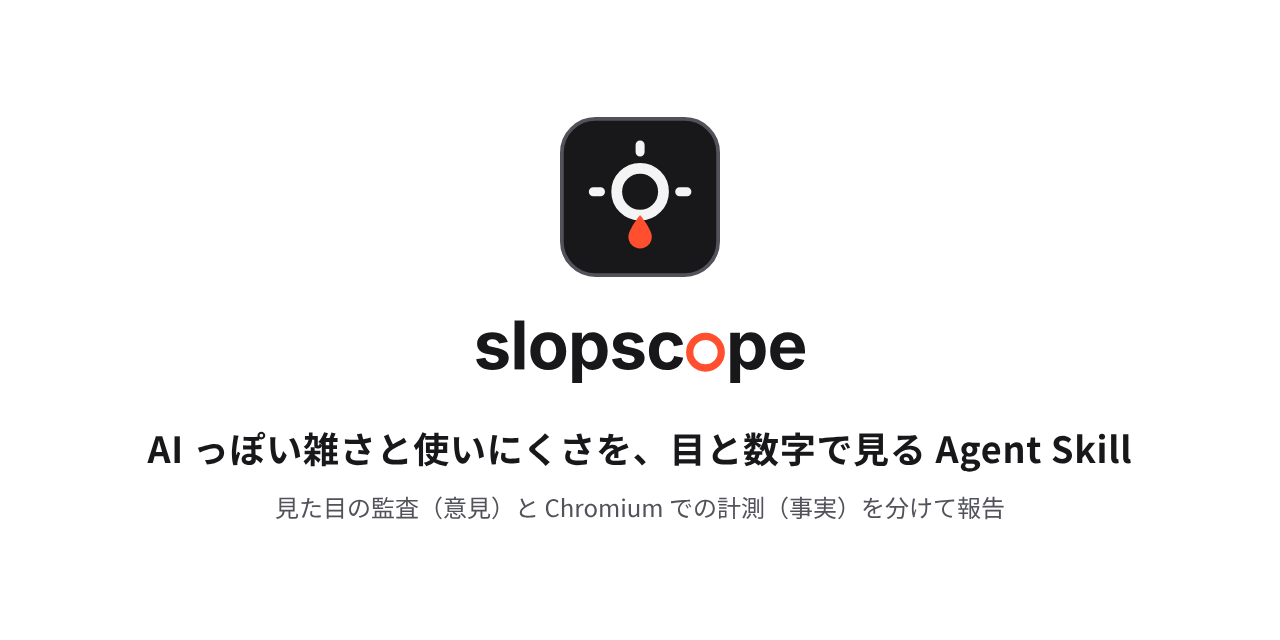
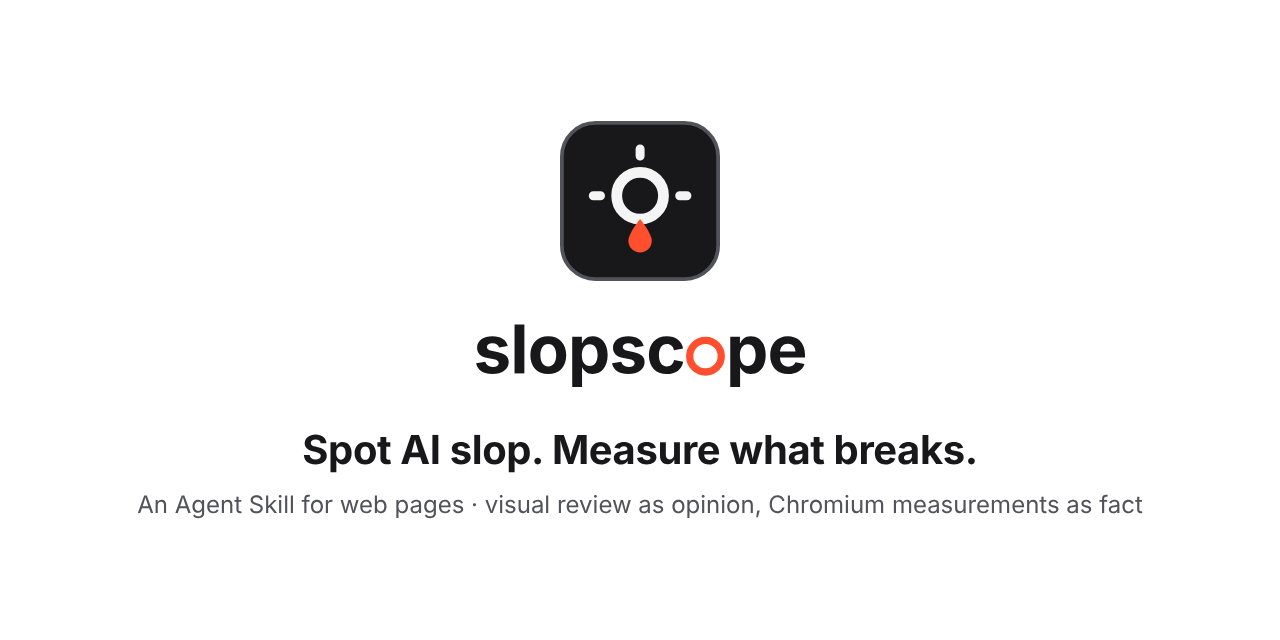
Social preview in English; keep the Japanese one as social-preview-ja.png
Claude-Session: https://claude.ai/code/session_01Gt7kNYwcrLQiGV347m6r52

diff --git a/docs/logo/social-preview.html b/docs/logo/social-preview.html
@@ -1,14 +1,14 @@
-<!doctype html><html lang="ja"><head><meta charset="utf-8"><title>slopscope social preview</title>
+<!doctype html><html lang="en"><head><meta charset="utf-8"><title>slopscope social preview</title>
 <style>
   body{margin:0;width:1280px;height:640px;background:#fff;display:flex;flex-direction:column;align-items:center;justify-content:center;
-       font-family:"Noto Sans CJK JP",sans-serif;color:#18181B}
+       font-family:"Inter",sans-serif;color:#18181B}
   .icon{width:160px;margin-bottom:28px}
   .word{height:84px}
-  p{margin:32px 0 0;font-size:36px;font-weight:700;letter-spacing:.02em}
+  p{margin:32px 0 0;font-size:40px;font-weight:700;letter-spacing:-.01em}
   small{margin-top:16px;font-size:24px;color:#52525B}
 </style></head><body>
 <img class="icon" src="../../assets/app-icon.svg" alt="">
 <img class="word" src="../../assets/wordmark.svg" alt="slopscope">
-<p>AI っぽい雑さと使いにくさを、目と数字で見る Agent Skill</p>
-<small>見た目の監査（意見）と Chromium での計測（事実）を分けて報告</small>
+<p>Spot AI slop. Measure what breaks.</p>
+<small>An Agent Skill for web pages · visual review as opinion, Chromium measurements as fact</small>
 </body></html>

diff --git a/docs/logo/social-preview-ja.html b/docs/logo/social-preview-ja.html
@@ -1,0 +1,14 @@
+<!doctype html><html lang="ja"><head><meta charset="utf-8"><title>slopscope social preview</title>
+<style>
+  body{margin:0;width:1280px;height:640px;background:#fff;display:flex;flex-direction:column;align-items:center;justify-content:center;
+       font-family:"Noto Sans CJK JP",sans-serif;color:#18181B}
+  .icon{width:160px;margin-bottom:28px}
+  .word{height:84px}
+  p{margin:32px 0 0;font-size:36px;font-weight:700;letter-spacing:.02em}
+  small{margin-top:16px;font-size:24px;color:#52525B}
+</style></head><body>
+<img class="icon" src="../../assets/app-icon.svg" alt="">
+<img class="word" src="../../assets/wordmark.svg" alt="slopscope">
+<p>AI っぽい雑さと使いにくさを、目と数字で見る Agent Skill</p>
+<small>見た目の監査（意見）と Chromium での計測（事実）を分けて報告</small>
+</body></html>

diff --git a/docs/logo/README.md b/docs/logo/README.md
@@ -8,11 +8,11 @@
 | `logo.svg` / `logo-dark.svg` | マークだけ（小さい場所） |
 | `wordmark.svg` / `wordmark-dark.svg` | 名前だけ |
 | `lockup.svg` / `lockup-dark.svg` | マークと名前を横に並べたもの |
-| `social-preview.png` | リンクを共有したときに出る画像（1280×640） |
+| `social-preview.png` / `social-preview-ja.png` | リンクを共有したときに出る画像（1280×640）。英語版と日本語版 |
 
 `-dark` は暗い背景用です。
 
-README の画面の画像 `docs/images/demo.png` は、`python3 docs/images/make_demo.py` で撮り直せます（架空の見本ページを実際に測った結果）。共有用の画像は `docs/logo/social-preview.html` をブラウザで 1280×640 で撮ったものです。
+README の画面の画像 `docs/images/demo.png` は、`python3 docs/images/make_demo.py` で撮り直せます（架空の見本ページを実際に測った結果）。共有用の画像は `docs/logo/social-preview.html`（英語）と `social-preview-ja.html`（日本語）をブラウザで 1280×640 で撮ったものです。
 
 ## 形の意味
 
